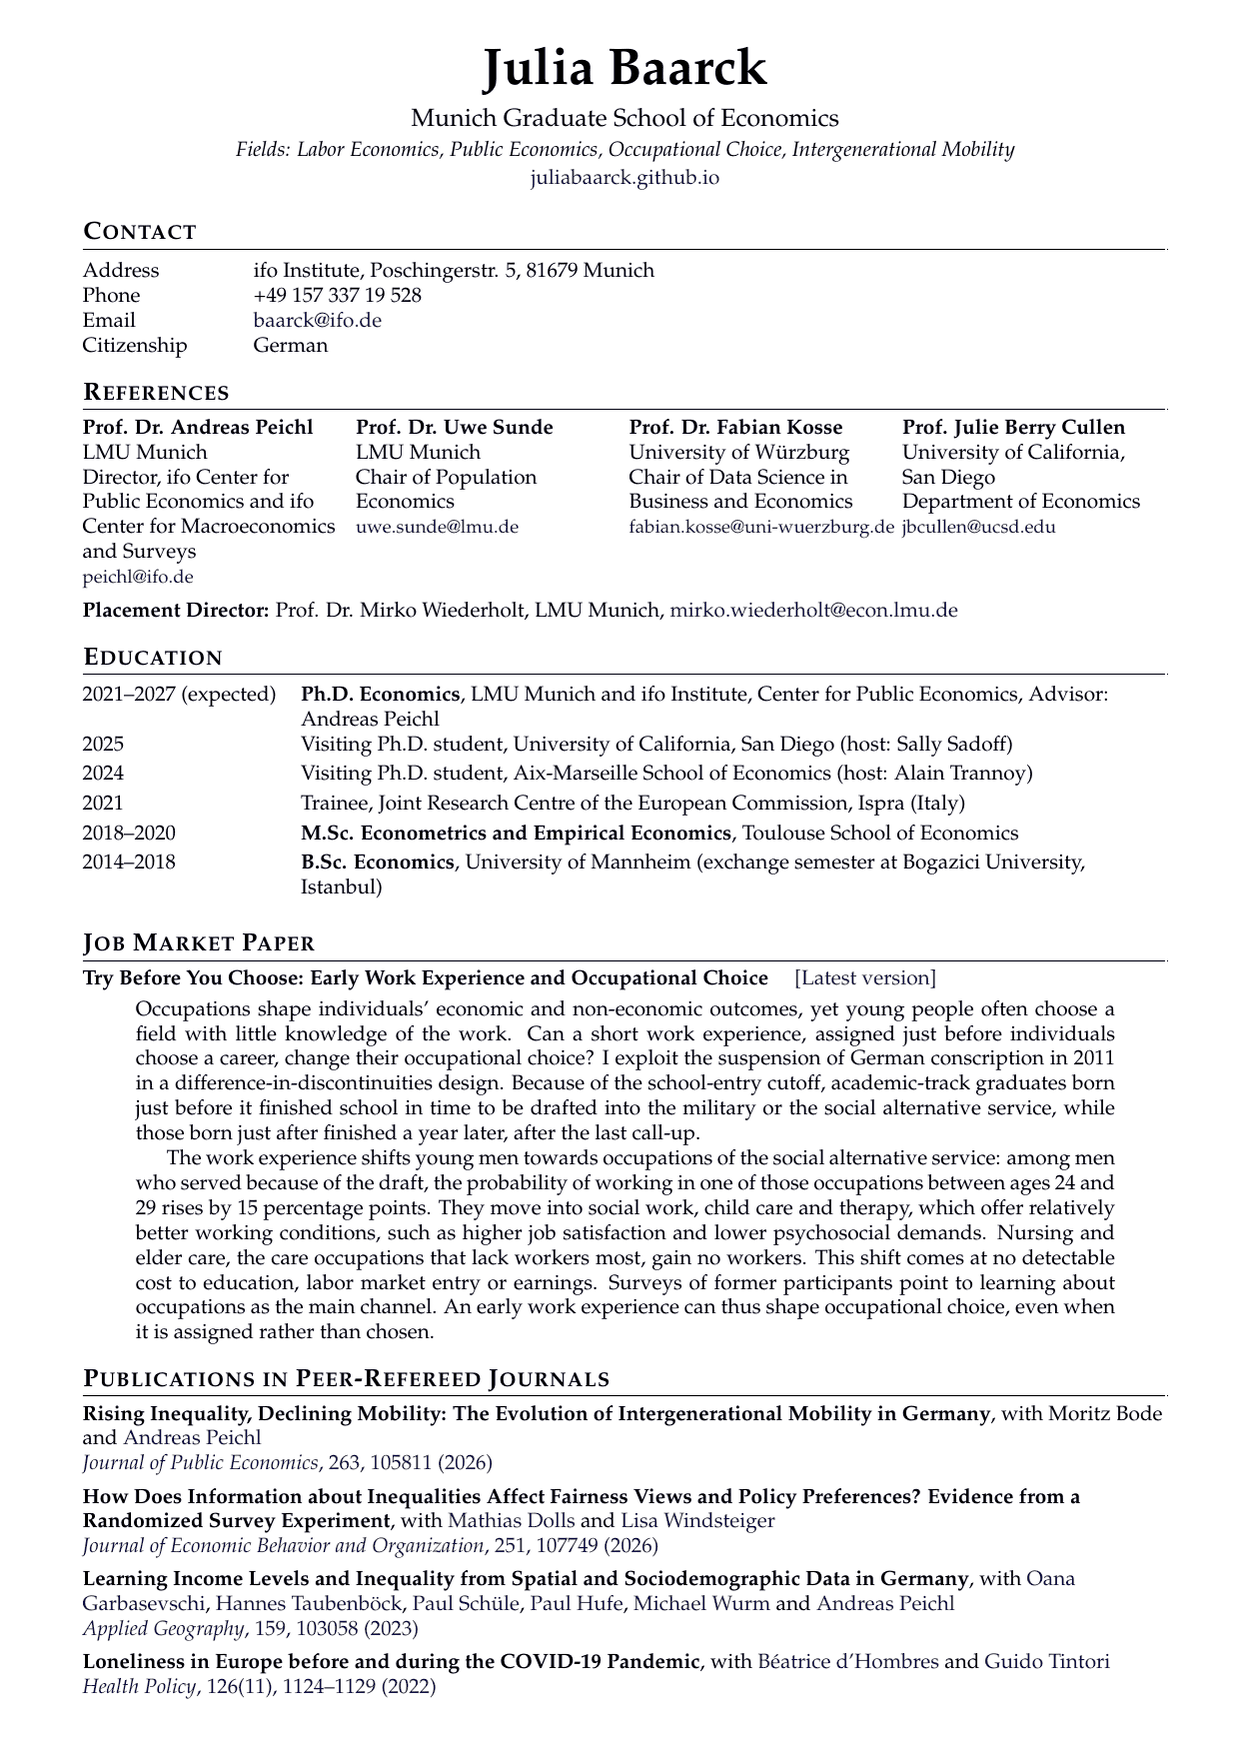
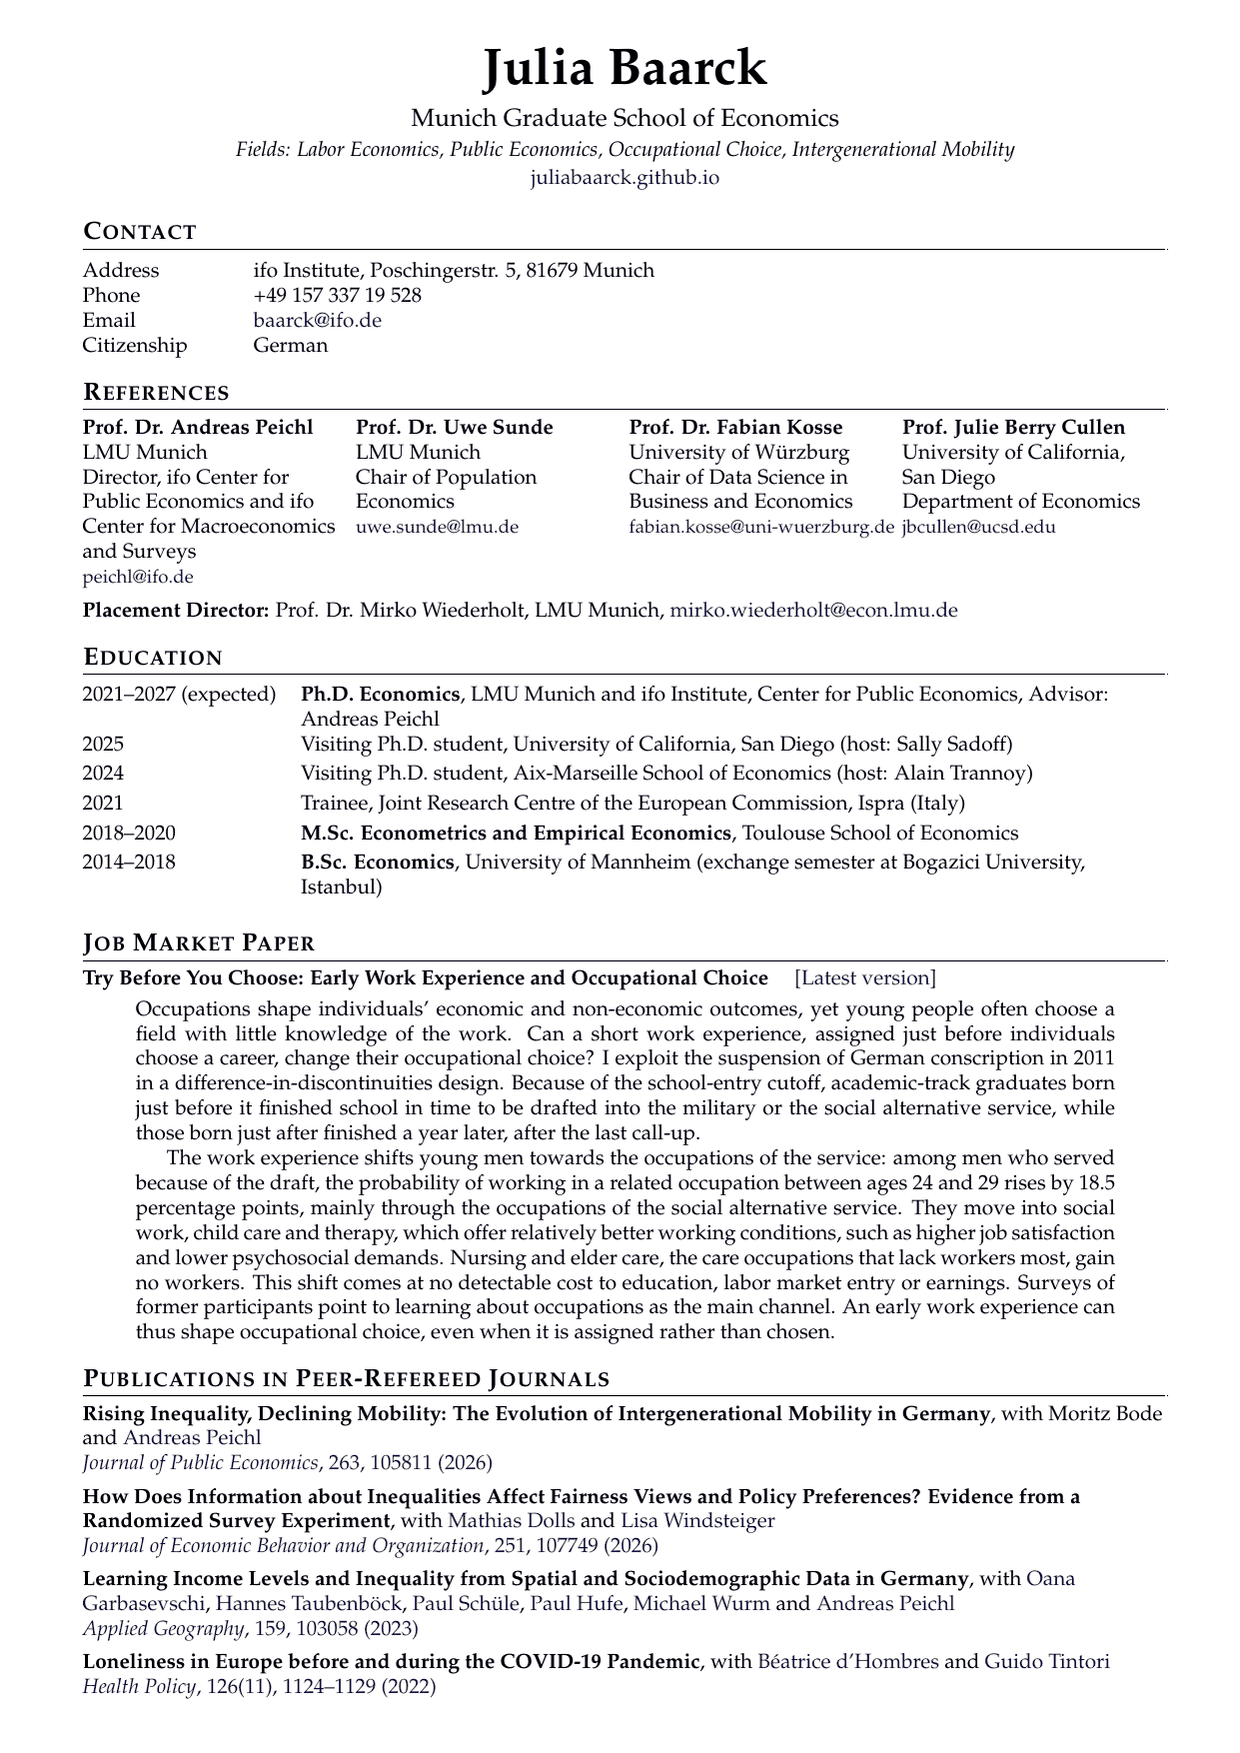
Update JMP abstract (new version, 9 Nov 2026) and CV

Changed region(s): [[0.0919, 0.6469, 0.9194, 0.7701]]

diff --git a/research.html b/research.html
@@ -61,16 +61,16 @@
           finished a year later, after the last call-up.
         </p>
         <p class="abstract">
-          The work experience shifts young men towards occupations of the social alternative
-          service: among men who served because of the draft, the probability of working in one
-          of those occupations between ages 24 and 29 rises by 15 percentage points. They move
-          into social work, child care and therapy, which offer relatively better working
-          conditions, such as higher job satisfaction and lower psychosocial demands. Nursing
-          and elder care, the care occupations that lack workers most, gain no workers. This
-          shift comes at no detectable cost to education, labor market entry or earnings.
-          Surveys of former participants point to learning about occupations as the main
-          channel. An early work experience can thus shape occupational choice, even when it is
-          assigned rather than chosen.
+          The work experience shifts young men towards the occupations of the service: among men
+          who served because of the draft, the probability of working in a related occupation
+          between ages 24 and 29 rises by 18.5 percentage points, mainly through the occupations
+          of the social alternative service. They move into social work, child care and therapy,
+          which offer relatively better working conditions, such as higher job satisfaction and
+          lower psychosocial demands. Nursing and elder care, the care occupations that lack
+          workers most, gain no workers. This shift comes at no detectable cost to education,
+          labor market entry or earnings. Surveys of former participants point to learning about
+          occupations as the main channel. An early work experience can thus shape occupational
+          choice, even when it is assigned rather than chosen.
         </p>
         <ul class="paper-links">
           <li><a href="https://www.dropbox.com/scl/fo/uiow8vsqfclex3vbsispj/AAdQL_7jk4XkJHnIXQfKTOo?rlkey=4igogd1g7pt76ptvw7uxcuyap&amp;dl=0" target="_blank" rel="noopener">Latest version</a></li>

diff --git a/index.html b/index.html
@@ -106,16 +106,16 @@
           finished a year later, after the last call-up.
         </p>
         <p>
-          The work experience shifts young men towards occupations of the social alternative
-          service: among men who served because of the draft, the probability of working in one
-          of those occupations between ages 24 and 29 rises by 15 percentage points. They move
-          into social work, child care and therapy, which offer relatively better working
-          conditions, such as higher job satisfaction and lower psychosocial demands. Nursing
-          and elder care, the care occupations that lack workers most, gain no workers. This
-          shift comes at no detectable cost to education, labor market entry or earnings.
-          Surveys of former participants point to learning about occupations as the main
-          channel. An early work experience can thus shape occupational choice, even when it is
-          assigned rather than chosen.
+          The work experience shifts young men towards the occupations of the service: among men
+          who served because of the draft, the probability of working in a related occupation
+          between ages 24 and 29 rises by 18.5 percentage points, mainly through the occupations
+          of the social alternative service. They move into social work, child care and therapy,
+          which offer relatively better working conditions, such as higher job satisfaction and
+          lower psychosocial demands. Nursing and elder care, the care occupations that lack
+          workers most, gain no workers. This shift comes at no detectable cost to education,
+          labor market entry or earnings. Surveys of former participants point to learning about
+          occupations as the main channel. An early work experience can thus shape occupational
+          choice, even when it is assigned rather than chosen.
         </p>
       </div>
 
